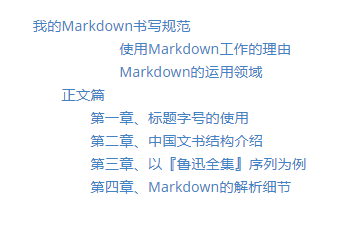
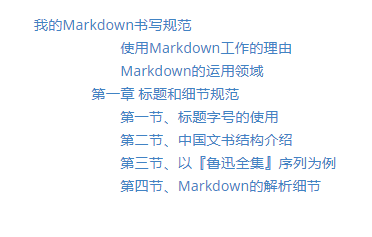
2019/11/15

diff --git a/_posts/2019-4-7-MyMD.html b/_posts/2019-4-7-MyMD.html
@@ -23,7 +23,7 @@ title: Markdown书写规范
 
 ![演示图片](/img/TOCect.png)
 
-#### 本书正文：标题和细节规范
+#### 第一章 标题和细节规范
 
 为了在使用Markdown时不需犹豫 "该使用几号标题" 这样无关紧要的问题，我做了统一化工作。本人在本科阶段学习了正规系统的『公文写作』课程，你可以信任这里的规范。本篇包含内容：
 
